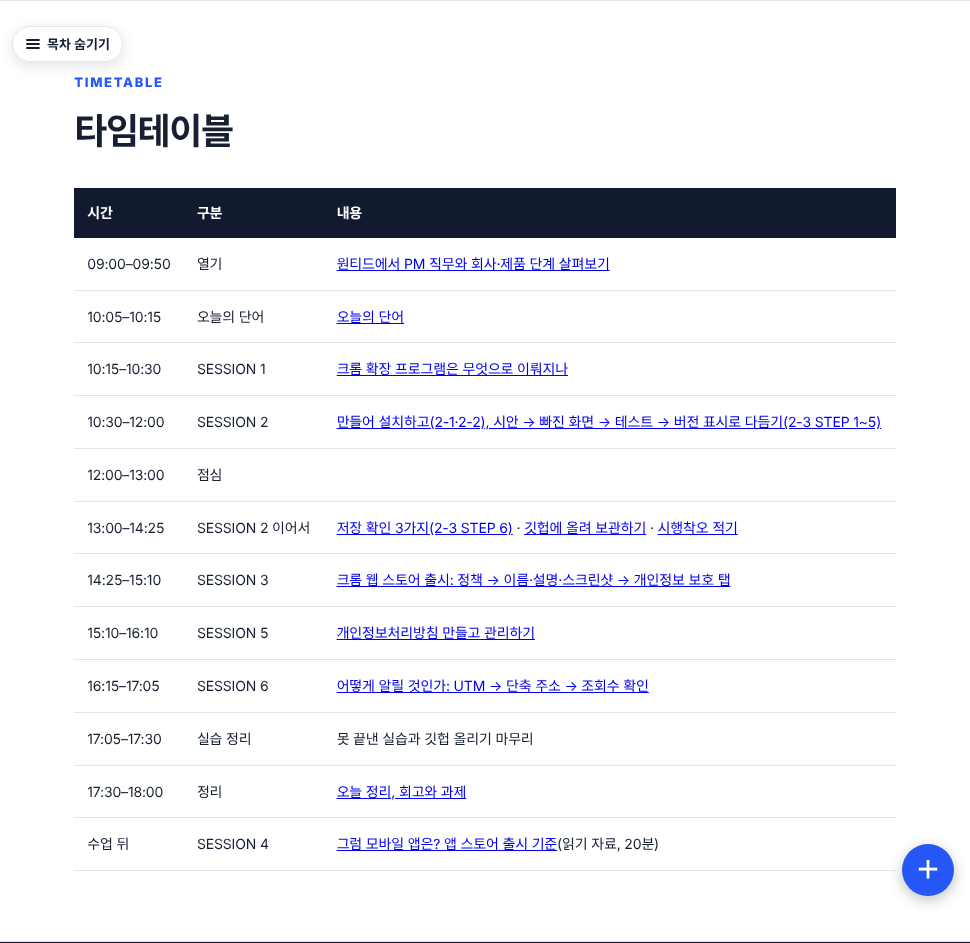
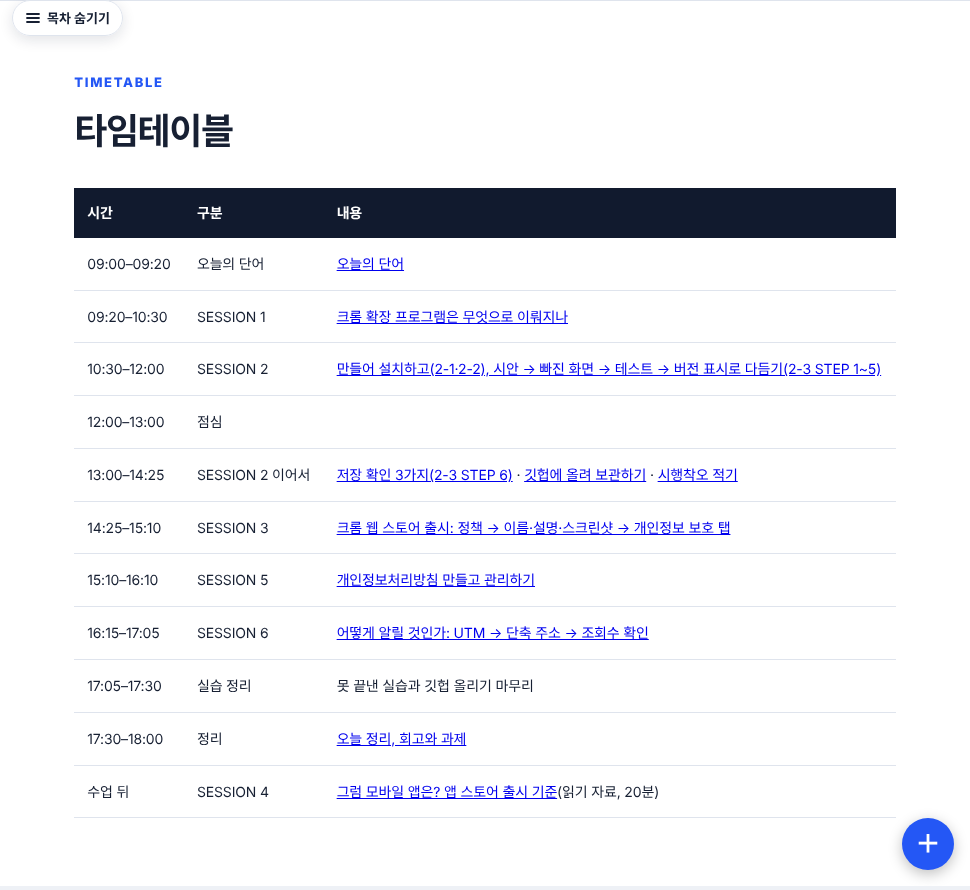
DAY4: 원티드 열기 세션 삭제(로린님 결정), 타임테이블 단어·세션1 시간 조정
Claude-Session: https://claude.ai/code/session_01C4uqyCmUdkabTdS81yyFMh

diff --git a/261116-ai-pm-week4/d4-chrome-extension.html b/261116-ai-pm-week4/d4-chrome-extension.html
@@ -309,7 +309,6 @@ aside nav a.active{border-left-color:var(--blue)}
 <nav>
 <div class="nav-title">전체 목차</div>
 <div class="grp"><div class="grp-label">교육 안내</div><a class="l2" href="#overview">교육 개요</a><a class="l2" href="#prep">수업 전 준비</a><a class="l2" href="#tt">타임테이블</a></div>
-<div class="grp"><div class="grp-label">열기</div><a class="l2" href="#open">원티드에서 PM 직무 살펴보기</a></div>
 <div class="grp"><div class="grp-label">오늘의 단어</div><a class="l2" href="#words">오늘의 단어</a></div>
 <div class="grp"><div class="grp-label">SESSION 1</div><a class="l2" href="#s1">크롬 확장 프로그램은 무엇으로 이뤄지나</a><a class="l3" href="#s1-1">1-1. 오늘 만들 '내 문장 모음'의 파일 4개</a><a class="l3" href="#s1-2">1-2. 기획서 먼저 쓰기</a></div>
 <div class="grp"><div class="grp-label">SESSION 2</div><a class="l2" href="#s2">문장 모음 확장 프로그램 만들어 설치하기</a><a class="l3" href="#s2-1">2-1. 클로드 코드로 만들기</a><a class="l3" href="#s2-2">2-2. 내 크롬에 설치하기</a><a class="l3" href="#s2-3">2-3. 써 보고 다듬기(STEP 1~6)</a><a class="l3" href="#s2-4">2-4. 깃헙에 올려 보관하기</a><a class="l3" href="#s2-5">2-5. 결과</a><a class="l3" href="#s2-6">2-6. (선택) 크롬 웹 스토어 개발자 등록</a></div>
@@ -339,7 +338,7 @@ aside nav a.active{border-left-color:var(--blue)}
 
 <section class="section" id="overview"><div class="section-label">OVERVIEW</div><h2>교육 개요</h2>
 <div class="table-wrap"><table>
-<tr><th>시간</th><td>09:00–18:00 (점심 12:00–13:00, 수업 8시간 · 09:00–09:50은 채용 공고 살펴보기)</td></tr>
+<tr><th>시간</th><td>09:00–18:00 (점심 12:00–13:00, 수업 8시간)</td></tr>
 <tr><th>교과</th><td>[기본] AI 서비스 개발 · 15일차 (총 18일)</td></tr>
 <tr><th>교육 목표</th><td>크롬 확장 프로그램을 만들어 내 크롬에 설치하고, 플랫폼에 출시할 때 따라야 하는 약관과 준비물, 출시 뒤의 약관 관리와 홍보·측정 방법을 안다.</td></tr>
 <tr><th>수업이 끝나면</th><td>① 확장 프로그램을 이루는 파일(manifest, 팝업, 배경 스크립트)을 설명하기<br/>② 만든 확장 프로그램을 [압축해제된 확장 프로그램 로드]로 설치하고, 시안 → 빠진 화면 → 테스트로 다듬어 깃헙에 올려 보관하기<br/>③ 플랫폼에 올리면 그 플랫폼의 약관을 따라야 한다는 것을 설명하고, 스토어 등록정보 초안 쓰기<br/>④ 모바일 앱 출시 기준(애플·구글)의 최근 변화를 말하기<br/>⑤ AI로 개인정보처리방침·이용약관 초안을 만들고, 약관을 바꿀 때의 절차 말하기<br/>⑥ 다이렉트·오가닉·페이드를 구분하고, 채널별 UTM 링크를 만들어 GA에서 확인하는 방법 말하기</td></tr>
@@ -357,9 +356,8 @@ aside nav a.active{border-left-color:var(--blue)}
 <section class="section" id="tt"><div class="section-label">TIMETABLE</div><h2>타임테이블</h2>
 <div class="table-wrap"><table>
 <tr><th>시간</th><th>구분</th><th>내용</th></tr>
-<tr><td>09:00–09:50</td><td>열기</td><td><a href="#open">원티드에서 PM 직무와 회사·제품 단계 살펴보기</a></td></tr>
-<tr><td>10:05–10:15</td><td>오늘의 단어</td><td><a href="#words">오늘의 단어</a></td></tr>
-<tr><td>10:15–10:30</td><td>SESSION 1</td><td><a href="#s1">크롬 확장 프로그램은 무엇으로 이뤄지나</a></td></tr>
+<tr><td>09:00–09:20</td><td>오늘의 단어</td><td><a href="#words">오늘의 단어</a></td></tr>
+<tr><td>09:20–10:30</td><td>SESSION 1</td><td><a href="#s1">크롬 확장 프로그램은 무엇으로 이뤄지나</a></td></tr>
 <tr><td>10:30–12:00</td><td>SESSION 2</td><td><a href="#s2">만들어 설치하고(2-1·2-2), 시안 → 빠진 화면 → 테스트 → 버전 표시로 다듬기(2-3 STEP 1~5)</a></td></tr>
 <tr><td>12:00–13:00</td><td>점심</td><td></td></tr>
 <tr><td>13:00–14:25</td><td>SESSION 2 이어서</td><td><a href="#s2-3-step6">저장 확인 3가지(2-3 STEP 6)</a> · <a href="#s2-4">깃헙에 올려 보관하기</a> · <a href="#s2-5">시행착오 적기</a></td></tr>
@@ -372,38 +370,8 @@ aside nav a.active{border-left-color:var(--blue)}
 </table></div>
 </section>
 
-<section class="section session" id="open">
-<div class="session-head"><div class="eyebrow">열기 · 09:00–09:50</div><h2>원티드에서 PM 직무와 회사·제품 단계 살펴보기</h2><p>오늘 수업을 시작하기 전에 채용 공고를 함께 봐요. 어떤 회사가 PM을 뽑는지, 그 회사와 제품이 지금 어느 단계에 있는지 읽는 연습이에요.</p>
-<div class="why-box"><b>왜 하나?</b>같은 'PM' 공고라도 회사가 막 시작한 곳인지, 이미 큰 곳인지에 따라 맡는 일이 달라요. 공고를 읽을 때 회사와 제품의 단계를 함께 보면, 내가 지원할 자리에서 무슨 일을 하게 될지 미리 짐작할 수 있어요.</div></div>
-<div class="topic" id="open-1"><h3><span class="stage">실습</span>열기-1. 인기 공고에서 내가 아는 회사·제품 5개 찾기</h3>
-<ol class="do-steps">
-<li><p><a href="https://www.wanted.co.kr/" target="_blank" rel="noopener">원티드(wanted.co.kr)</a>를 열고, 검색창에 'PM' 또는 '프로덕트 매니저'를 넣어 채용 공고를 찾아요.</p></li>
-<li><p>공고 목록의 정렬을 [인기순]으로 바꿔요.</p></li>
-<li><p>목록에서 <b>내가 이미 알고 있는 회사나 써 본 제품</b>을 5개 골라 아래 표에 적어요.</p></li>
-</ol>
-<p class="blk k-tpl"><span>빈 템플릿</span></p>
-<div class="table-wrap tpl"><table><tr><th>회사</th><th>내가 아는 제품(서비스)</th><th>공고의 직무 이름</th><th>회사 단계</th><th>제품 단계</th></tr>
-<tr><td></td><td></td><td></td><td></td><td></td></tr>
-<tr><td></td><td></td><td></td><td></td><td></td></tr>
-<tr><td></td><td></td><td></td><td></td><td></td></tr>
-<tr><td></td><td></td><td></td><td></td><td></td></tr>
-<tr><td></td><td></td><td></td><td></td><td></td></tr>
-</table></div>
-</div>
-<div class="topic" id="open-2"><h3><span class="stage">개념</span>열기-2. 회사의 단계와 제품의 단계를 따로 봐요</h3>
-<p>회사에도 단계가 있고, 제품에도 단계가 있어요. 두 단계는 서로 달라요. 오래된 큰 회사도 새 제품을 막 내놓을 수 있고, 작은 회사의 제품 하나가 이미 많이 쓰이고 있을 수도 있어요.</p>
-<div class="table-wrap"><table><tr><th>보는 것</th><th>단계(예)</th><th>공고에서 찾을 단서</th></tr>
-<tr><td><b>회사의 라이프사이클</b></td><td>막 시작한 회사 → 빠르게 크는 회사 → 자리 잡은 큰 회사</td><td>회사 소개의 설립 연도, 직원 수, 투자 단계, 다른 제품이 몇 개인지</td></tr>
-<tr><td><b>제품의 라이프사이클</b></td><td>도입(처음 내놓음) → 성장(사용자가 빠르게 늘어남) → 성숙(사용자가 많고 안정됨) → 쇠퇴</td><td>"0→1", "신규 서비스 런칭"이면 도입, "지표 개선·그로스"면 성장, "운영·고도화"면 성숙에 가까워요</td></tr>
-</table></div>
-<p>공고에 맡을 <b>제품 이름이 보이지 않으면</b>, "어느 팀에서 일하는 자리인가"를 찾아 읽어요. 결제팀, 검색팀, 플랫폼팀처럼 팀 이름을 보면 내가 맡을 영역을 짐작할 수 있어요.</p>
-<p class="ok-line"><b>이렇게 보이면 성공</b>표 5줄에 회사 단계와 제품 단계가 각각 적혀 있고, 제품 이름이 없는 공고는 팀 이름이 적혀 있다</p>
-<div class="term-note" role="note" aria-label="이 절의 용어"><b>용어</b><dl><dt>라이프사이클</dt><dd>회사나 제품이 생겨나서 크고, 자리 잡고, 줄어드는 단계를 이어 본 것</dd></dl></div>
-</div>
-</section>
-
 <section class="section session" id="words">
-<div class="session-head"><div class="eyebrow">단어 · 10:05–10:15</div><h2>오늘의 단어</h2><p>오늘 처음 나오는 말을 먼저 짧게 짚고 시작해요.</p></div>
+<div class="session-head"><div class="eyebrow">단어 · 09:00–09:20</div><h2>오늘의 단어</h2><p>오늘 처음 나오는 말을 먼저 짧게 짚고 시작해요.</p></div>
 <div class="table-wrap"><table>
 <tr><th>단어</th><th>뜻</th></tr>
 <tr><td><b>크롬 확장 프로그램</b></td><td>크롬에 기능을 더하는 작은 프로그램. 퍼즐 조각 단추 안에 모여 있어요.</td></tr>
@@ -419,7 +387,7 @@ aside nav a.active{border-left-color:var(--blue)}
 </section>
 
 <section class="section session" id="s1">
-<div class="session-head"><div class="eyebrow">SESSION 1 · 10:15–10:30</div><h2>크롬 확장 프로그램은 무엇으로 이뤄지나</h2><p>확장 프로그램은 지금까지 만든 웹페이지와 같은 HTML·자바스크립트로 만들어요. 다른 점은 설명 파일(manifest.json)과 권한이에요.</p>
+<div class="session-head"><div class="eyebrow">SESSION 1 · 09:20–10:30</div><h2>크롬 확장 프로그램은 무엇으로 이뤄지나</h2><p>확장 프로그램은 지금까지 만든 웹페이지와 같은 HTML·자바스크립트로 만들어요. 다른 점은 설명 파일(manifest.json)과 권한이에요.</p>
 <div class="why-box"><b>왜 하나?</b>웹페이지는 한 사이트 안에서만 일하지만, 확장 프로그램은 내가 여는 여러 사이트에서 일할 수 있어요. 그래서 할 수 있는 일도 많고, 조심할 것도 많아요.</div></div>
 
 <div class="topic" id="s1-1"><h3><span class="stage">개념</span>1-1. 오늘 만들 '내 문장 모음'의 파일 4개</h3>

diff --git a/_pr-notes/218_d4_slack_supplement_261119/README.md b/_pr-notes/218_d4_slack_supplement_261119/README.md
@@ -8,7 +8,6 @@
 | 장면 | 전 | 후 |
 |---|---|---|
 | 타임테이블 | ![](01_목_타임테이블_전.png) | ![](01_목_타임테이블_후.png) |
-| 열기(신규) | – | ![](02_목_열기_후.png) |
 | 2-3 STEP 1~6 | ![](03_목_2-3_전.png) | ![](03_목_2-3_후.png) |
 | 3-5 | ![](04_목_3-5_전.png) | ![](04_목_3-5_후.png) |
 | 6-5 | ![](05_목_6-5_전.png) | ![](05_목_6-5_후.png) |
